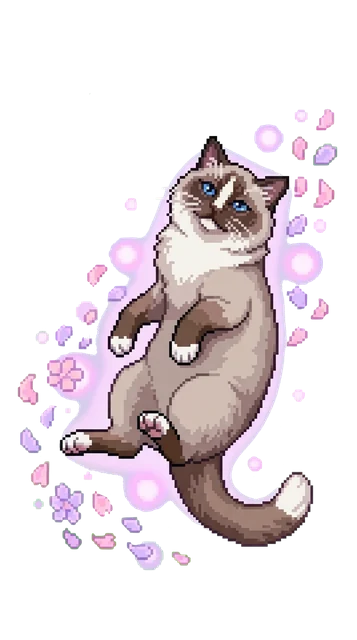
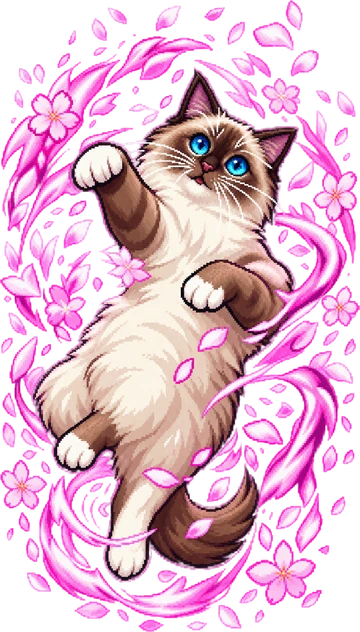
Puiutu site: Scottish Fold and Ragdoll cards redrawn in the style of the other skins

diff --git a/site/make_puiutu_crisp.py b/site/make_puiutu_crisp.py
@@ -41,3 +41,19 @@ def hd_cutout(src, name, h=700):
 
 
 hd_cutout('site/art_src/puiutu_hd.png', 'puiutu.webp')
+
+
+def card_cutout(src, name, w=360):
+    """Regenerated skin card: drop faint alpha, crop to content, resize to the other cards' width."""
+    im = np.array(Image.open(os.path.join(R, src)).convert('RGBA'))
+    im[..., 3] = np.where(im[..., 3] > 30, im[..., 3], 0)
+    out = Image.fromarray(im)
+    out = out.crop(out.getbbox())
+    out = out.resize((w, round(out.height * w / out.width)), Image.LANCZOS)
+    out.save(os.path.join(R, 'site/art', name), 'WEBP', quality=90)
+    print(name, out.size)
+
+
+for _card in ['scottish', 'ragdoll']:
+    if os.path.exists(os.path.join(R, f'site/art_src/skin_{_card}.png')):
+        card_cutout(f'site/art_src/skin_{_card}.png', f'skin_{_card}.webp')
